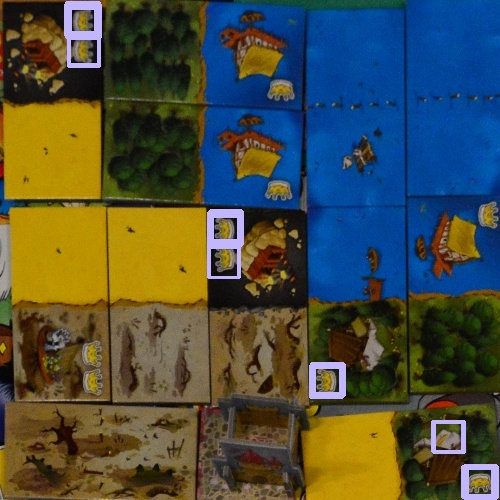
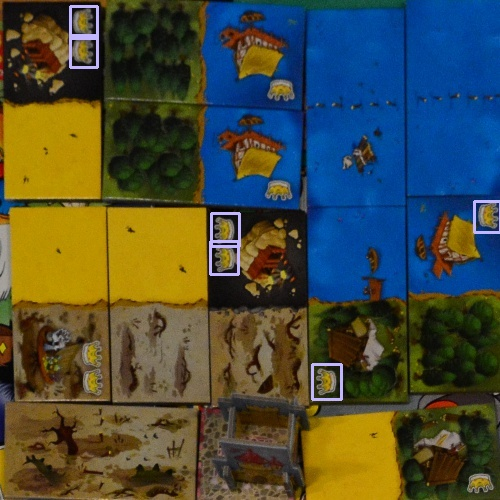
kkk

diff --git a/template_match.py b/template_match.py
@@ -4,7 +4,6 @@ import os
 import glob
 
 def rotate_image(image, angle):
-    """Roter billede omkring centrum uden at klippe det."""
     h, w = image.shape[:2]
     center = (w // 2, h // 2)
     rot_mat = cv2.getRotationMatrix2D(center, angle, 1.0)
@@ -18,33 +17,42 @@ def rotate_image(image, angle):
 
 # Parametre 
 input_folder = 'splitted_dataset/train/cropped'
-template_path = 'opdateret_skærmbillede.png'
+template_paths = [
+    'opdateret_skærmbillede.png',
+    'opdateret_skærmbillede2.png',
+    'opdateret_skærmbillede3.png',
+    'opdateret_skærmbillede4.png'
+]
 output_folder = 'outputs_with_crowns'
 
-scales = [0.6, 0.8, 1.0, 1.2]
+scales = [ 0.9, 1.0, 1.2]
 angles = [0, 90, 180, 270]
 threshold = 0.6
 highlight_color = (255, 182, 193)
 
-# Indlæs template 
-crown_template = cv2.imread(template_path)
-if crown_template is None:
-    raise ValueError(" Template-billede ikke fundet.")
-crown_template = cv2.resize(crown_template, (50, 50))
+# Indlæs templates
+templates = []
+for path in template_paths:
+    template = cv2.imread(path)
+    if template is None:
+        print(f" Kunne ikke finde template: {path}")
+        continue
+    templates.append(cv2.resize(template, (34, 29)))
 
-# Find alle billeder 
+if not templates:
+    raise ValueError(" Ingen valide templates blev indlæst!")
+
 image_paths = glob.glob(os.path.join(input_folder, '*.jpg'))
 if not image_paths:
-    print("Ingen billeder fundet i mappen.")
+    print(" Ingen billeder fundet.")
     exit()
 
 os.makedirs(output_folder, exist_ok=True)
 
-# Loop gennem ALLE billeder 
+# === Loop gennem billeder ===
 for img_path in image_paths:
     filename = os.path.basename(img_path)
     board_img = cv2.imread(img_path)
-
     if board_img is None:
         print(f" Kunne ikke læse {filename}")
         continue
@@ -60,38 +68,46 @@ for img_path in image_paths:
             x_start = col * tile_width
             y_start = row * tile_height
             tile_bgr = board_img[y_start:y_start + tile_height, x_start:x_start + tile_width]
-            total_matches = 0
 
-            for angle in angles:
-                rotated_template = rotate_image(crown_template, angle)
+            found_rects = []
 
-                for scale in scales:
-                    resized_template = cv2.resize(rotated_template, (0, 0), fx=scale, fy=scale)
-                    h, w = resized_template.shape[:2]
+            for template in templates:
+                for angle in angles:
+                    rotated_template = rotate_image(template, angle)
 
-                    if h > tile_bgr.shape[0] or w > tile_bgr.shape[1]:
-                        continue
+                    for scale in scales:
+                        resized_template = cv2.resize(rotated_template, (0, 0), fx=scale, fy=scale)
+                        h, w = resized_template.shape[:2]
 
-                    result = cv2.matchTemplate(tile_bgr, resized_template, cv2.TM_CCOEFF_NORMED)
-                    locations = np.where(result >= threshold)
+                        if h > tile_bgr.shape[0] or w > tile_bgr.shape[1]:
+                            continue
 
-                    for pt in zip(*locations[::-1]):
-                        top_left = (x_start + pt[0], y_start + pt[1])
-                        bottom_right = (top_left[0] + w, top_left[1] + h)
-                        cv2.rectangle(board_img, top_left, bottom_right, highlight_color, 2)
-                        total_matches += 1
+                        result = cv2.matchTemplate(tile_bgr, resized_template, cv2.TM_CCOEFF_NORMED)
+                        locations = np.where(result >= threshold)
+
+                        for pt in zip(*locations[::-1]):
+                            found_rects.append([pt[0], pt[1], w, h])
+
+            # === Non-Maximum Suppression ===
+            if found_rects:
+                rects, _ = cv2.groupRectangles(found_rects, groupThreshold=1, eps=0.5)
+            else:
+                rects = []
+
+            total_matches = len(rects)
+
+            for (x, y, w, h) in rects:
+                top_left = (x_start + x, y_start + y)
+                bottom_right = (top_left[0] + w, top_left[1] + h)
+                cv2.rectangle(board_img, top_left, bottom_right, highlight_color, 2)
 
             crown_counts[row, col] = total_matches
             if total_matches > 0:
-                print(f"{filename} - Tile ({row},{col}) - Fundne kroner: {total_matches}")
+                print(f"{filename} - Tile ({row},{col}) - Fundne kroner efter NMS: {total_matches}")
 
     print(f"\n{filename} - Samlet kroner matrix:\n{crown_counts}\n")
 
-    # Gem billede med markeringer
-    output_path = os.path.join(output_folder, f"marked_{filename}")
-    cv2.imwrite(output_path, board_img)
-
-    # Vis resultat 
+    cv2.imwrite(os.path.join(output_folder, f"marked_{filename}"), board_img)
     cv2.imshow(f"Kroner: {filename}", board_img)
     cv2.waitKey(0)
     cv2.destroyAllWindows()
